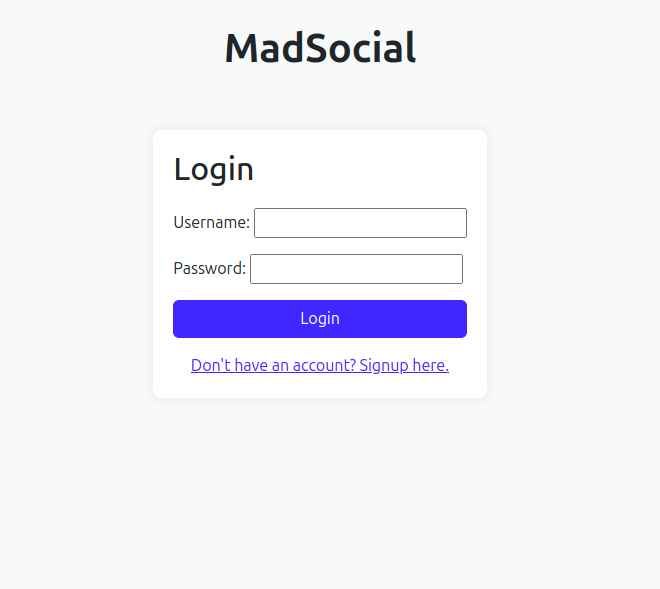
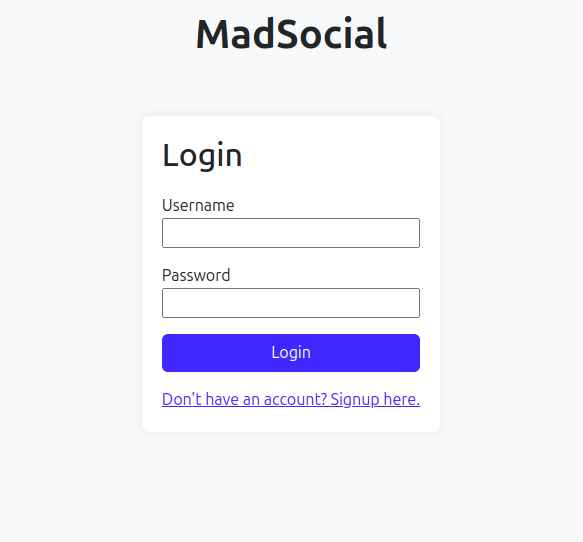
added improvements and deletion of post and updation of user data

diff --git a/templates/posts/post.html b/templates/posts/post.html
@@ -1,16 +1,25 @@
-{% extends 'layout/layout.html' %}
-
-{% block content %}
-    <div class="d-flex flex-column align-items-center">
-        {% for post in posts %} 
-            <div class="card my-3" style="width: 18rem;">
-                <div class="card-body">
-                    <h5 class="card-title">{{ post.title }}</h5>
-                    <p class="card-text">{{ post.content }}</p>
-                </div>
+{% extends 'layout/layout.html' %} {% block content %}
+<div class="d-flex flex-column align-items-center">
+    {% for post in posts %}
+    <div class="card my-3 w-50 border border-3 border-black rounded-5">
+        <a href="{% url 'single_post' post.id %}" class="text-decoration-none text-reset">
+            <div class="card-body">
+                <h3 class="card-title">{{ post.created_by }}</h3>
+                <hr class="my-4" style="height: 2px; border-width: 0; background-color: black;" />
+                <h5 class="card-title">Title: {{ post.title }}</h5>
+                <hr class="my-4" style="height: 2px; border-width: 0; background-color: black;" />
+                <p class="card-text">Content: {{ post.content }}</p>
+                {% if post.created_by.id == user.id %}
+                <form action="{% url 'delete_post' post.id %}" method="post">
+                    {% csrf_token %}
+                    <button type="submit" class="btn btn-danger my-3">Delete Post</button>
+                </form>
+                {% endif %}
             </div>
-        {% empty %}
-            <div class="alert alert-info">No posts available.</div>  
-        {% endfor %}
+        </a>
     </div>
+    {% empty %}
+    <div class="alert alert-info">No posts available.</div>
+    {% endfor %}
+</div>
 {% endblock %}

diff --git a/templates/posts/single_post.html b/templates/posts/single_post.html
@@ -1,0 +1,24 @@
+{% extends 'layout/layout.html' %} {% block content %}
+<div class="d-flex flex-column align-items-center">
+    <div class="card my-3 w-50 border border-3 border-black rounded-5">
+        <div class="card-body">
+            <h1>{{ post.title }}</h1>
+            <hr class="my-4" style="height: 2px; border-width: 0; background-color: black;" />
+            <p>{{ post.content }}</p>
+            <hr>
+            <p>Created by: {{ post.created_by.username }} on {{ post.created_at }}</p>
+            <hr class="my-4" style="height: 2px; border-width: 0; background-color: black;" />
+            {% if post.created_by.id == user.id %}
+            <div class="d-flex align-items-center justify-content-between">
+                <form action="{% url 'delete_post' post.id %}" method="post">
+                    {% csrf_token %}
+                    <button type="submit" class="btn btn-danger my-3">Delete Post</button>
+                </form>   
+                {% endif %}
+                <a href="{% url 'list_post' %}">Back to posts</a>
+            </div>
+           
+        </div>
+    </div>
+</div>
+{% endblock %}

diff --git a/templates/accounts/edit_profile.html b/templates/accounts/edit_profile.html
@@ -7,19 +7,19 @@
         <div class="card-body">
             <form method="POST">
                 {% csrf_token %}
-                <div class="form-group mb-3">
+                <div class="form-group mb-3 d-flex flex-column">
                     <label for="username">Username</label>
                     {{ form.username }}
                 </div>
-                <div class="form-group mb-3">
+                <div class="form-group mb-3  d-flex flex-column">
                     <label for="email">Email</label>
                     {{ form.email }}
                 </div>
-                <div class="form-group mb-3">
+                <div class="form-group mb-3 d-flex flex-column">
                     <label for="first_name">First Name</label>
                     {{ form.first_name }}
                 </div>
-                <div class="form-group mb-3">
+                <div class="form-group mb-3 d-flex flex-column">
                     <label for="last_name">Last Name</label>
                     {{ form.last_name }}
                 </div>

diff --git a/templates/accounts/signup.html b/templates/accounts/signup.html
@@ -31,7 +31,24 @@
       <div class="signup-container">
         <h2 class="text-center">Signup</h2>
         <form method="post">
-          {% csrf_token %} {{ form.as_p }}
+          {% csrf_token %}
+          <div class="form-group mb-3 d-flex flex-column">
+            <label for="username">Username:</label>
+            {{ form.username }}
+        </div>
+          <div class="form-group mb-3 d-flex flex-column">
+            <label for="email">Email Address:</label>
+            {{ form.email }}
+        </div>
+    
+          <div class="form-group mb-3 d-flex flex-column">
+            <label for="password">Password:</label>
+            {{ form.password }}
+        </div>
+        <div class="form-group mb-3 d-flex flex-column">
+          <label for="password_confirmation">Confirm Password:</label>
+          {{ form.password_confirmation }}
+      </div>
           <button type="submit" class="btn btn-primary w-100">Register</button>
         </form>
         <div class="text-center mt-3">

diff --git a/templates/accounts/user_details.html b/templates/accounts/user_details.html
@@ -3,12 +3,14 @@
 {% block content %}
 <div class="d-flex flex-column align-items-center mt-5">
     <h1>User Profile</h1>
-    <div class="card my-3" style="width: 18rem;">
+    <div class="card my-3" style="width: 30rem;">
         <div class="card-body text-center">
             <h5 class="card-title mt-3">Username: {{ user.username }}</h5>
+            <hr class="my-4" style="height: 2px; border-width: 0; background-color: black;" />
             <p class="card-text">Email: {{ user.email }}</p>
             <p class="card-text">Firsname: {{ user.first_name }}</p>
             <p class="card-text">Lastname: {{ user.last_name }}</p>
+            <hr class="my-4" style="height: 2px; border-width: 0; background-color: black;" />
             <form action="{% url 'edit_profile' %}" method="get">
                 <button type="submit" class="btn btn-primary mt-3">Edit Profile</button>
             </form>          

diff --git a/templates/base.html b/templates/base.html
@@ -6,6 +6,10 @@
   <meta name="viewport" content="width=device-width, initial-scale=1.0" />
   <link href="https://cdn.jsdelivr.net/npm/bootstrap@5.3.3/dist/css/bootstrap.min.css" rel="stylesheet"
     integrity="sha384-QWTKZyjpPEjISv5WaRU9OFeRpok6YctnYmDr5pNlyT2bRjXh0JMhjY6hW+ALEwIH" crossorigin="anonymous" />
+  <link rel="preconnect" href="https://fonts.googleapis.com">
+  <link rel="preconnect" href="https://fonts.gstatic.com" crossorigin>
+  <link href="https://fonts.googleapis.com/css2?family=Open+Sans:ital,wght@0,300..800;1,300..800&display=swap"
+    rel="stylesheet">
   <style>
     html,
     body {
@@ -15,11 +19,12 @@
     body {
       display: flex;
       flex-direction: column;
+      font-family: 'Open Sans', sans-serif;
     }
 
     .content {
       flex-grow: 1;
-      padding-top: 70px; 
+      padding-top: 70px;
     }
   </style>
   <title>MadSocio</title>

diff --git a/templates/accounts/login.html b/templates/accounts/login.html
@@ -33,7 +33,14 @@
             <h2>Login</h2>
             <form method="post">
                 {% csrf_token %}
-                {{ form.as_p|safe }} <!-- Use safe to render HTML properly -->
+                <div class="form-group mb-3 d-flex flex-column">
+                    <label for="username">Username</label>
+                    {{ form.username }}
+                </div>
+                <div class="form-group mb-3 d-flex flex-column">
+                    <label for="password">Password</label>
+                    {{ form.password }}
+                </div>
                 <button type="submit" class="btn btn-primary w-100">Login</button>
             </form>
             <div class="text-center mt-3">

diff --git a/templates/includes/header.html b/templates/includes/header.html
@@ -1,6 +1,6 @@
-<nav class="navbar navbar-expand-lg bg-warning fixed-top">
+<nav class="navbar navbar-expand-lg bg-warning fixed-to fw-bold">
     <div class="container-fluid">
-        <a class="navbar-brand fw-bold mx-5" href="#">MadSocio</a>
+        <a class="navbar-brand mx-5" href="#">MadSocio</a>
         <button class="navbar-toggler" type="button" data-bs-toggle="collapse" data-bs-target="#navbarNavDropdown"
             aria-controls="navbarNavDropdown" aria-expanded="false" aria-label="Toggle navigation">
             <span class="navbar-toggler-icon"></span>

diff --git a/posts/views.py b/posts/views.py
@@ -1,24 +1,42 @@
-from django.shortcuts import render, redirect
+from django.shortcuts import render, redirect,  get_object_or_404
 from django.contrib.auth.decorators import login_required
 from .models import Post
 from .forms import PostForm
 
-@login_required  # Ensure the user is logged in before creating a post
+@login_required  
 def create_post(request):
     if request.method == 'POST':
         form = PostForm(request.POST)
         if form.is_valid():
-            post = form.save(commit=False)  # Create post instance without saving to the database yet
-            post.author = request.user  # Set the author to the logged-in user (optional)
-            post.save()  # Now save the post to the database
-            return redirect('list_post')  # Redirect to a list of posts after successful creation
+            post = form.save(commit=False)  
+            post.created_by = request.user 
+            post.save()  
+            return redirect('list_post')  
     else:
         form = PostForm()
     
     return render(request, 'posts/create_post.html', {'form': form})
 
-@login_required  # Ensure the user is logged in before accessing posts
+@login_required  
 def home_view(request):
-    print("User is authenticated:", request.user.is_authenticated)
-    posts = Post.objects.all()  # Fetch all posts from the database
+    posts = Post.objects.all()  
     return render(request, 'posts/post.html', {'posts': posts})
+
+@login_required
+def single_post_view(request, post_id):
+    if request.method == 'GET':
+        post = get_object_or_404(Post, id=post_id)
+        return render(request, 'posts/single_post.html', {'post': post})
+     
+    if request.method == 'POST':
+        return redirect('list_post')
+    
+@login_required 
+def delete_single_post(request, post_id):
+    post = get_object_or_404(Post, id=post_id)  
+    if request.method == 'POST':
+        print("Deleting post:", post.id)  
+        post.delete()  
+        return redirect('list_post') 
+    else:
+        return redirect('list_post') 

diff --git a/core/urls.py b/core/urls.py
@@ -1,20 +1,3 @@
-"""
-URL configuration for core project.
-
-The `urlpatterns` list routes URLs to views. For more information please see:
-    https://docs.djangoproject.com/en/5.1/topics/http/urls/
-Examples:
-Function views
-    1. Add an import:  from my_app import views
-    2. Add a URL to urlpatterns:  path('', views.home, name='home')
-Class-based views
-    1. Add an import:  from other_app.views import Home
-    2. Add a URL to urlpatterns:  path('', Home.as_view(), name='home')
-Including another URLconf
-    1. Import the include() function: from django.urls import include, path
-    2. Add a URL to urlpatterns:  path('blog/', include('blog.urls'))
-"""
-
 from django.contrib import admin
 from django.urls import path
 from posts.views import *
@@ -26,7 +9,9 @@ urlpatterns = [
     path("create/", create_post, name="create_post"),
     path("signup/", signup_view, name="signup"),
     path("login/", login_view, name="login"),
-    path('logout/', logout_view, name='logout'),
-    path('profile',user_details_view, name='user_details'),
-    path('edit_profile',edit_profile_view, name='edit_profile')
+    path("logout/", logout_view, name="logout"),
+    path("profile/", user_details_view, name="user_details"),
+    path("edit_profile/", edit_profile_view, name="edit_profile"),
+    path("post/<int:post_id>/", single_post_view, name="single_post"),
+    path("post/<int:post_id>/delete",delete_single_post, name="delete_post")
 ]

diff --git a/posts/migrations/0001_initial.py b/posts/migrations/0001_initial.py
@@ -1,5 +1,7 @@
-# Generated by Django 5.1.2 on 2024-10-19 16:54
+# Generated by Django 5.1.2 on 2024-10-20 04:00
 
+import django.db.models.deletion
+from django.conf import settings
 from django.db import migrations, models
 
 
@@ -8,6 +10,7 @@ class Migration(migrations.Migration):
     initial = True
 
     dependencies = [
+        migrations.swappable_dependency(settings.AUTH_USER_MODEL),
     ]
 
     operations = [
@@ -18,6 +21,7 @@ class Migration(migrations.Migration):
                 ('title', models.CharField(max_length=100)),
                 ('content', models.TextField()),
                 ('created_at', models.DateTimeField(auto_now_add=True)),
+                ('created_by', models.ForeignKey(on_delete=django.db.models.deletion.CASCADE, to=settings.AUTH_USER_MODEL)),
             ],
         ),
     ]

diff --git a/posts/models.py b/posts/models.py
@@ -1,10 +1,12 @@
 from django.db import models
+from django.contrib.auth.models import User
 
 
 class Post(models.Model):
     title = models.CharField(max_length=100)
     content = models.TextField()
     created_at = models.DateTimeField(auto_now_add=True)
+    created_by = models.ForeignKey(User,on_delete=models.CASCADE)
 
     def __str__(self) -> str:
         return str(self.title)
